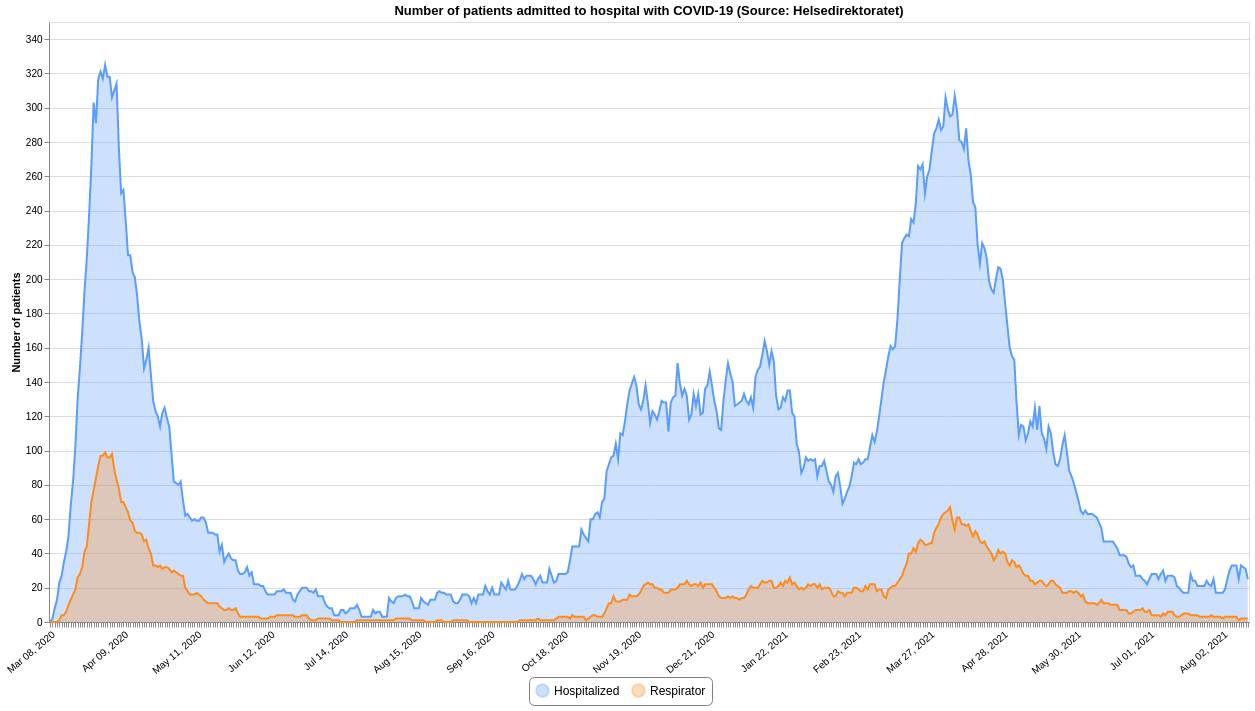
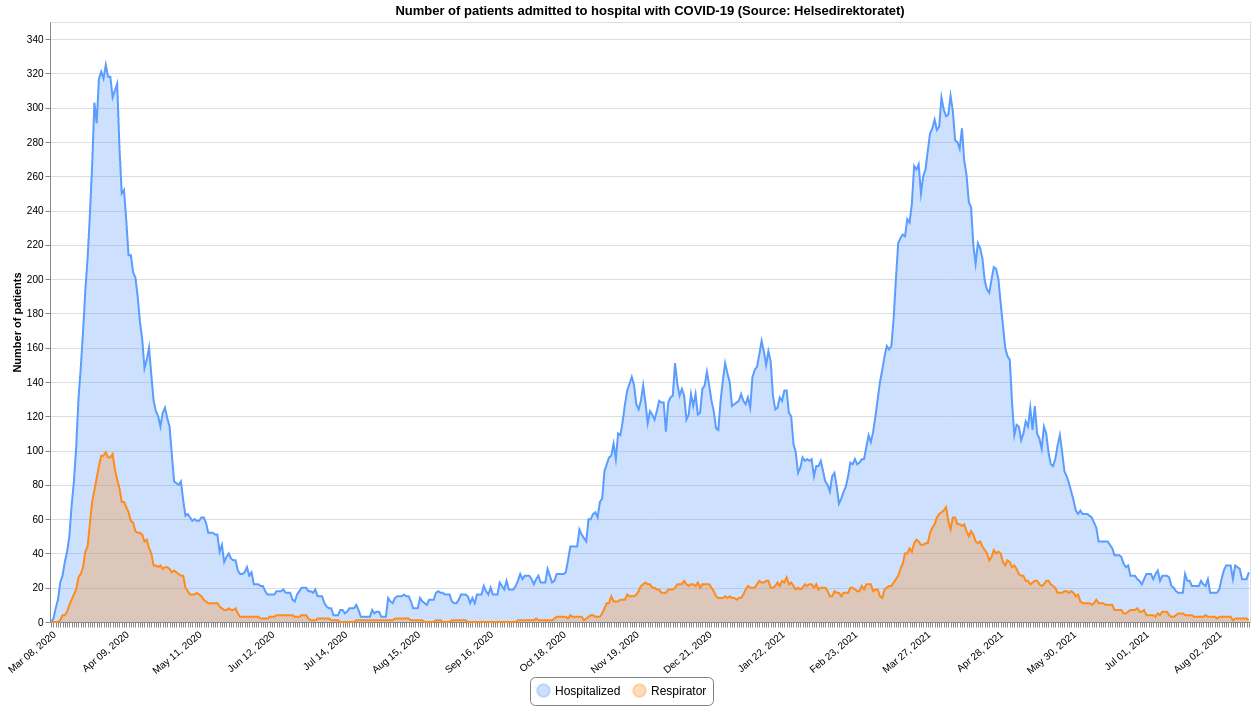
Updated 2021-08-16 12:21

diff --git a/README.md b/README.md
@@ -12,7 +12,7 @@ This repository contains datasets of daily time-series data related to COVID-19 
 | :--- | :--- | :--- | :--- | :--- |
 |[Confirmed](#confirmedcsv)|FHI / MSIS|2021-08-16 00:10:47+02:00|[<center>csv</center>](https://raw.githubusercontent.com/frefrik/covid19norge-data/main/data/confirmed.csv)|[<center>preview</center>](data/confirmed.csv)|
 |[Dead](#deadcsv)|FHI|2021-08-13 13:20:46+02:00|[<center>csv</center>](https://raw.githubusercontent.com/frefrik/covid19norge-data/main/data/dead.csv)|[<center>preview</center>](data/dead.csv)|
-|[Hospitalized](#hospitalizedcsv)|Helsedirektoratet|2021-08-13 12:20:43+02:00|[<center>csv</center>](https://raw.githubusercontent.com/frefrik/covid19norge-data/main/data/hospitalized.csv)|[<center>preview</center>](data/hospitalized.csv)|
+|[Hospitalized](#hospitalizedcsv)|Helsedirektoratet|2021-08-16 12:20:51+02:00|[<center>csv</center>](https://raw.githubusercontent.com/frefrik/covid19norge-data/main/data/hospitalized.csv)|[<center>preview</center>](data/hospitalized.csv)|
 |[Tested](#testedcsv)|FHI|2021-08-13 13:10:46+02:00|[<center>csv</center>](https://raw.githubusercontent.com/frefrik/covid19norge-data/main/data/tested.csv)|[<center>preview</center>](data/tested.csv)|
 |[Tested Lab](#tested_labcsv)|FHI|2021-08-13 13:20:42+02:00|[<center>csv</center>](https://raw.githubusercontent.com/frefrik/covid19norge-data/main/data/tested_lab.csv)|[<center>preview</center>](data/tested_lab.csv)|
 |[Transport](#transportcsv)|FHI|2021-08-16 11:20:46+02:00|[<center>csv</center>](https://raw.githubusercontent.com/frefrik/covid19norge-data/main/data/transport.csv)|[<center>preview</center>](data/transport.csv)|
